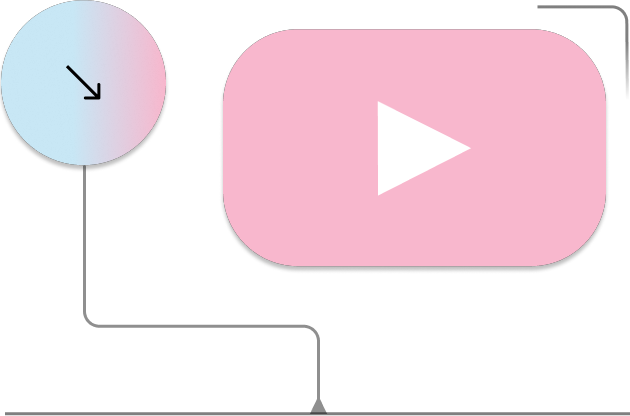
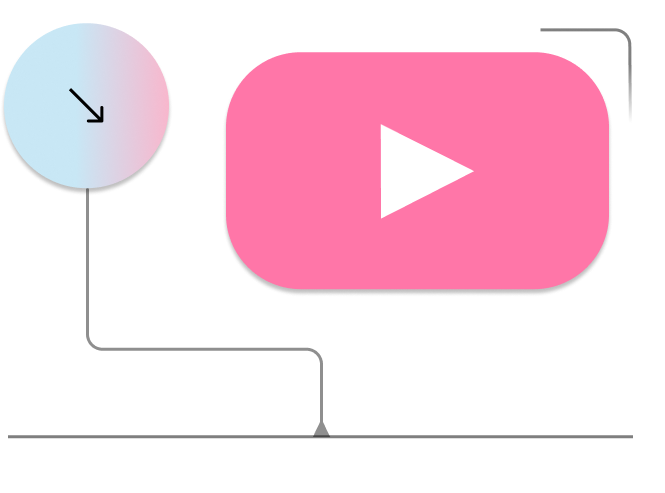
Change Youtube Graphic color

diff --git a/frontend/src/components/styles/Hero.css b/frontend/src/components/styles/Hero.css
@@ -52,7 +52,7 @@
     background: #FFFFFF;
     box-shadow: 0px 4px 4px #B9E1F2;
     border-radius: 15px;
-    width: 600px;
+    width: 550px;
     height: 61px;
     display: flex;
     justify-content: space-between;
